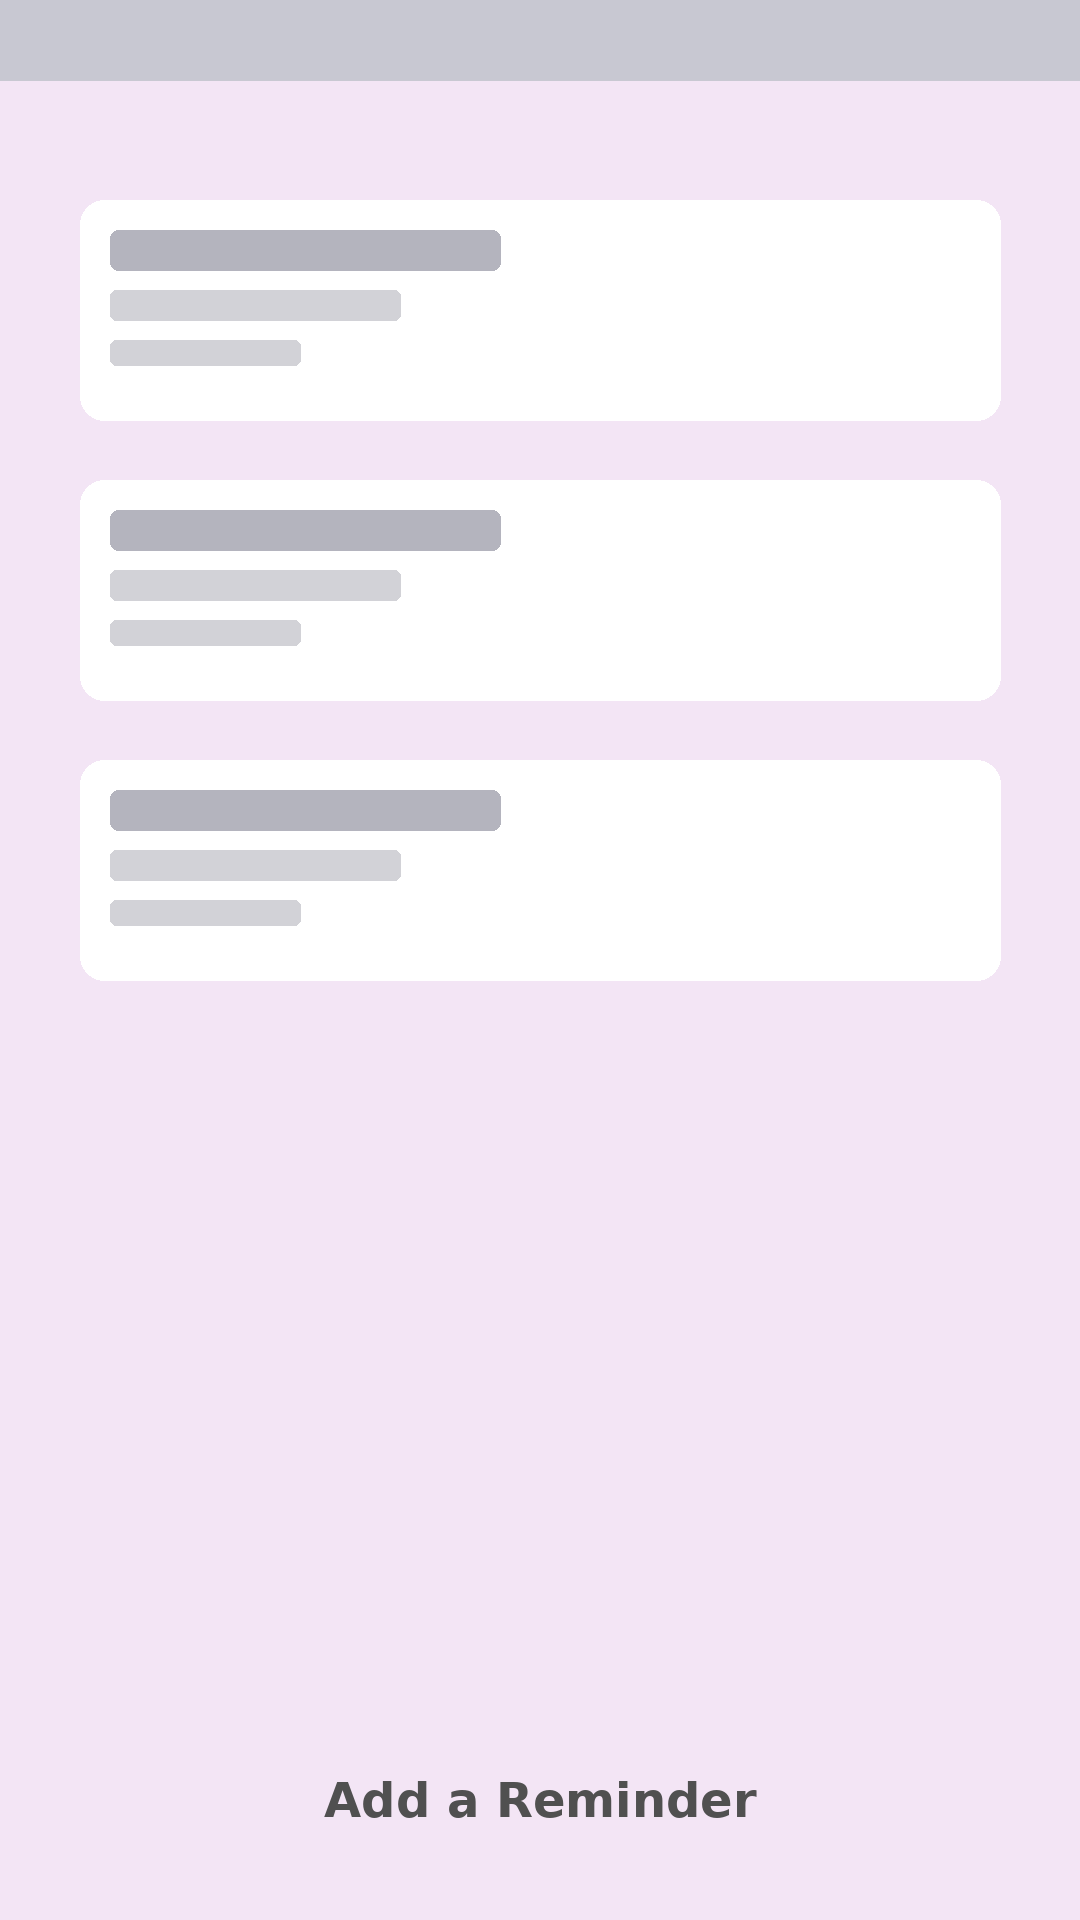
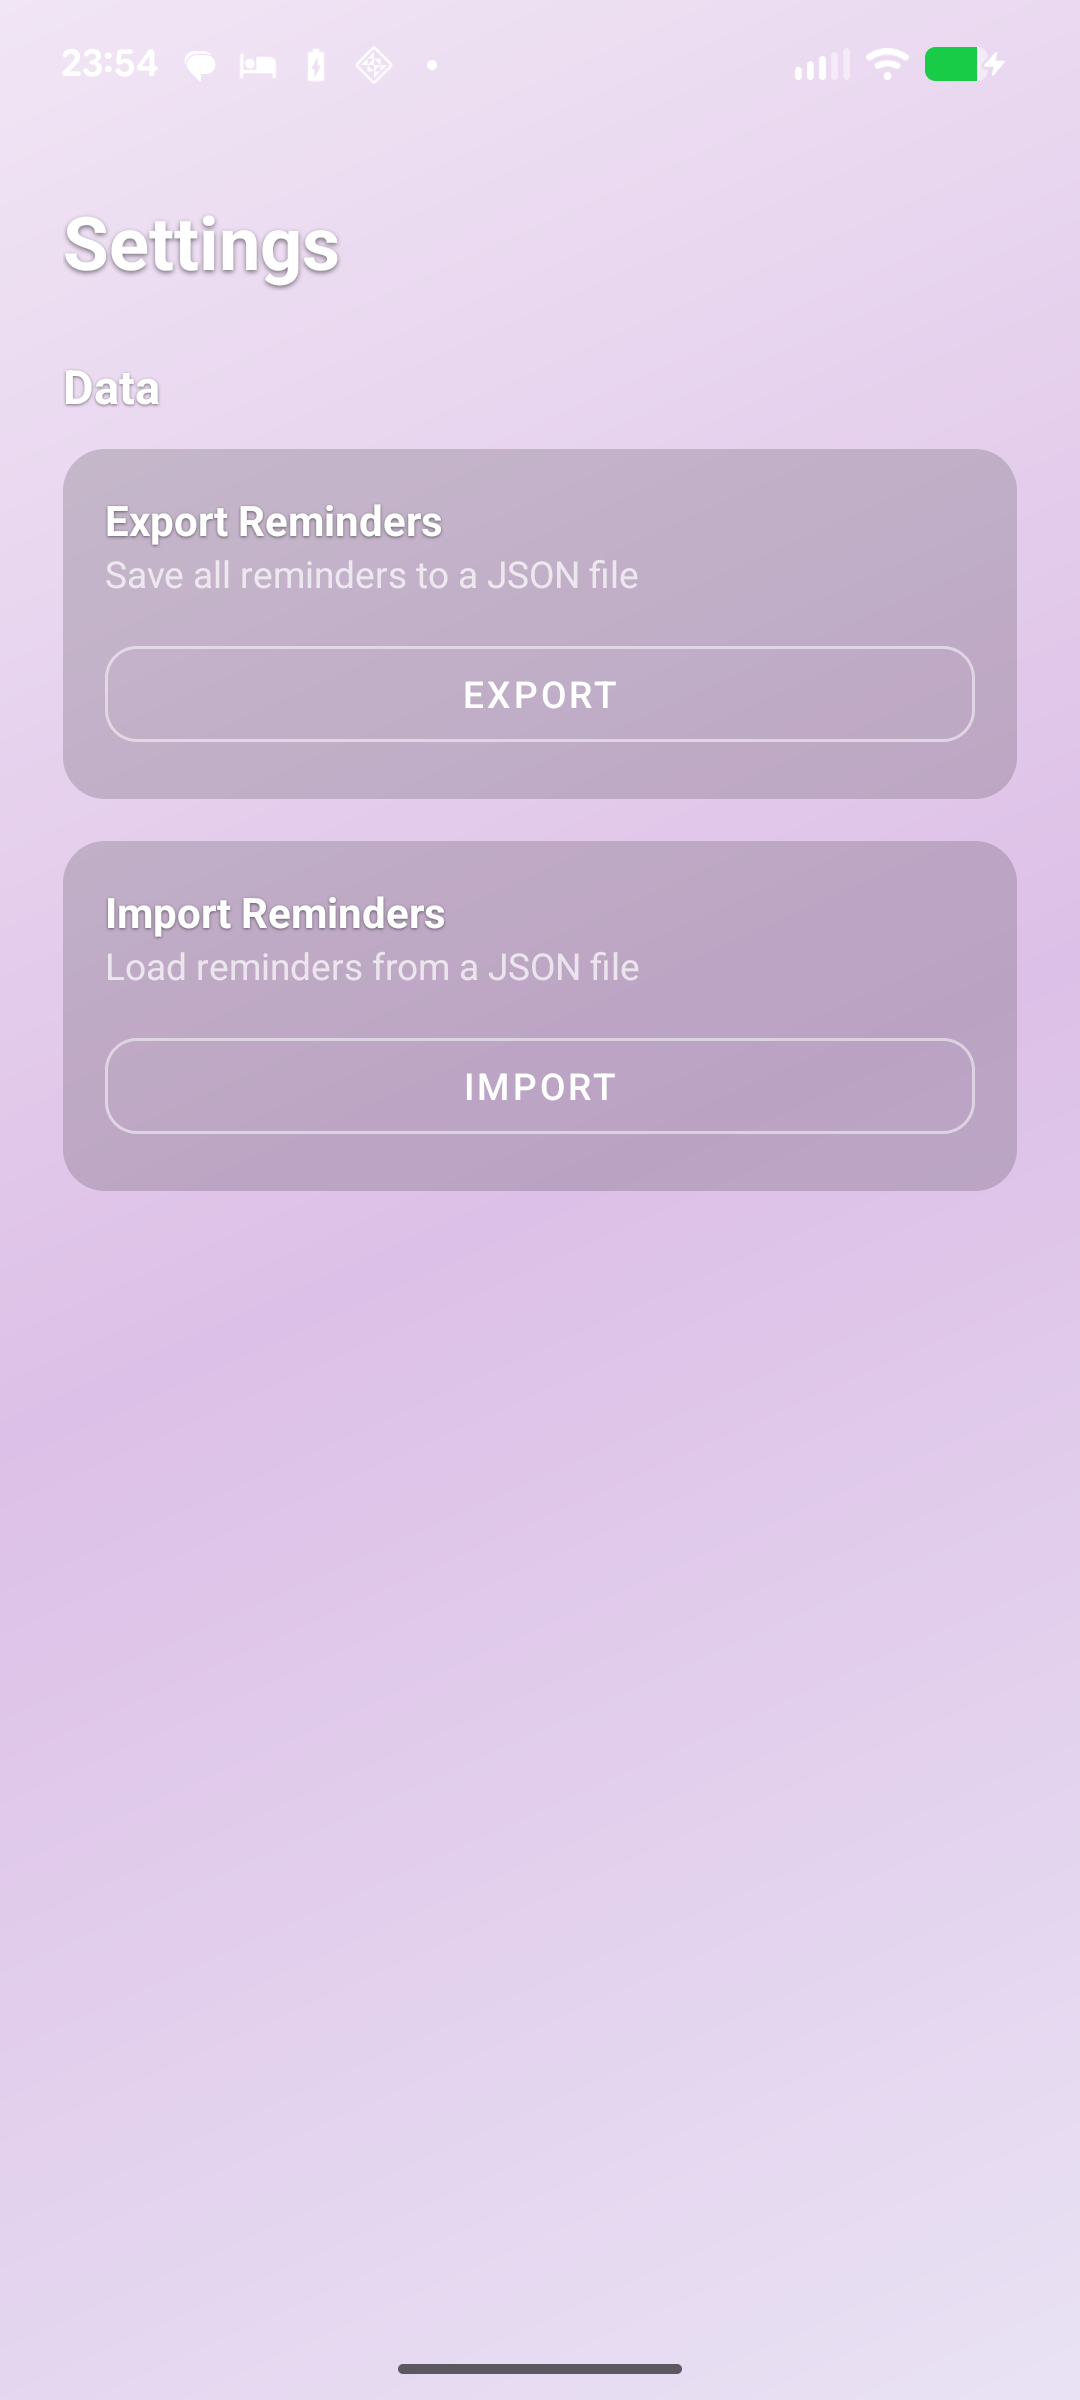
refactor: rename package to com.shalyminov.lorem

diff --git a/app/src/main/java/com/shalyminov/lorem/MainActivity.kt b/app/src/main/java/com/shalyminov/lorem/MainActivity.kt
@@ -1,4 +1,4 @@
-package com.example.locationreminder
+package com.shalyminov.lorem
 
 import android.Manifest
 import android.content.Context
@@ -24,10 +24,10 @@ import androidx.appcompat.app.AppCompatActivity
 import androidx.recyclerview.widget.ItemTouchHelper
 import androidx.recyclerview.widget.LinearLayoutManager
 import androidx.recyclerview.widget.RecyclerView as RecycleView
-import com.example.locationreminder.R
-import com.example.locationreminder.ReminderAdapter
-import com.example.locationreminder.data.Reminder
-import com.example.locationreminder.data.ReminderDatabase
+import com.shalyminov.lorem.R
+import com.shalyminov.lorem.ReminderAdapter
+import com.shalyminov.lorem.data.Reminder
+import com.shalyminov.lorem.data.ReminderDatabase
 import com.google.android.gms.maps.CameraUpdateFactory
 import com.google.android.gms.maps.GoogleMap
 import com.google.android.gms.maps.MapView

diff --git a/app/src/main/java/com/shalyminov/lorem/LocationMonitorService.kt b/app/src/main/java/com/shalyminov/lorem/LocationMonitorService.kt
@@ -1,4 +1,4 @@
-package com.example.locationreminder
+package com.shalyminov.lorem
 
 import android.app.NotificationChannel
 import android.app.NotificationManager
@@ -11,8 +11,8 @@ import android.os.Handler
 import android.os.IBinder
 import android.os.Looper
 import androidx.core.app.NotificationCompat
-import com.example.locationreminder.data.Reminder
-import com.example.locationreminder.data.ReminderDatabase
+import com.shalyminov.lorem.data.Reminder
+import com.shalyminov.lorem.data.ReminderDatabase
 import com.google.android.gms.location.FusedLocationProviderClient
 import com.google.android.gms.location.LocationAvailability
 import com.google.android.gms.location.LocationCallback

diff --git a/app/src/main/java/com/shalyminov/lorem/data/ReminderDatabase.kt b/app/src/main/java/com/shalyminov/lorem/data/ReminderDatabase.kt
@@ -1,4 +1,4 @@
-package com.example.locationreminder.data
+package com.shalyminov.lorem.data
 
 import android.content.Context
 import android.database.Cursor
@@ -8,8 +8,8 @@ import android.view.LayoutInflater
 import android.widget.Toast
 import androidx.recyclerview.widget.LinearLayoutManager as LinearLayoutManagerImpl
 import androidx.recyclerview.widget.RecyclerView as RecycleView
-import com.example.locationreminder.ReminderAdapter
-import com.example.locationreminder.data.Reminder
+import com.shalyminov.lorem.ReminderAdapter
+import com.shalyminov.lorem.data.Reminder
 
 class ReminderDatabase(context: Context) : SQLiteOpenHelper(context, DATABASE_NAME, null, DATABASE_VERSION) {
 

diff --git a/app/src/main/java/com/shalyminov/lorem/ReminderAdapter.kt b/app/src/main/java/com/shalyminov/lorem/ReminderAdapter.kt
@@ -1,4 +1,4 @@
-package com.example.locationreminder
+package com.shalyminov.lorem
 
 import android.view.LayoutInflater
 import android.view.View
@@ -7,8 +7,8 @@ import android.widget.Button
 import android.widget.ImageView
 import android.widget.TextView
 import androidx.recyclerview.widget.RecyclerView as RecycleView
-import com.example.locationreminder.data.Reminder
-import com.example.locationreminder.data.ReminderDatabase
+import com.shalyminov.lorem.data.Reminder
+import com.shalyminov.lorem.data.ReminderDatabase
 
 open class ReminderAdapter(
     open var listener: ReminderClickListener? = null,

diff --git a/app/src/main/java/com/shalyminov/lorem/SettingsActivity.kt b/app/src/main/java/com/shalyminov/lorem/SettingsActivity.kt
@@ -1,4 +1,4 @@
-package com.example.locationreminder
+package com.shalyminov.lorem
 
 import android.app.Activity
 import android.content.Intent
@@ -6,8 +6,8 @@ import android.net.Uri
 import android.os.Bundle
 import android.widget.Toast
 import androidx.appcompat.app.AppCompatActivity
-import com.example.locationreminder.data.Reminder
-import com.example.locationreminder.data.ReminderDatabase
+import com.shalyminov.lorem.data.Reminder
+import com.shalyminov.lorem.data.ReminderDatabase
 import org.json.JSONArray
 import org.json.JSONObject
 import java.io.BufferedReader

diff --git a/app/src/main/java/com/shalyminov/lorem/data/Reminder.kt b/app/src/main/java/com/shalyminov/lorem/data/Reminder.kt
@@ -1,4 +1,4 @@
-package com.example.locationreminder.data
+package com.shalyminov.lorem.data
 
 data class Reminder(
     val id: Long = 0,
